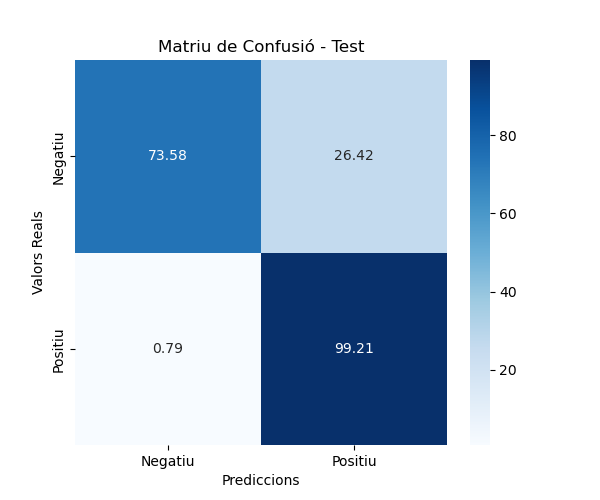
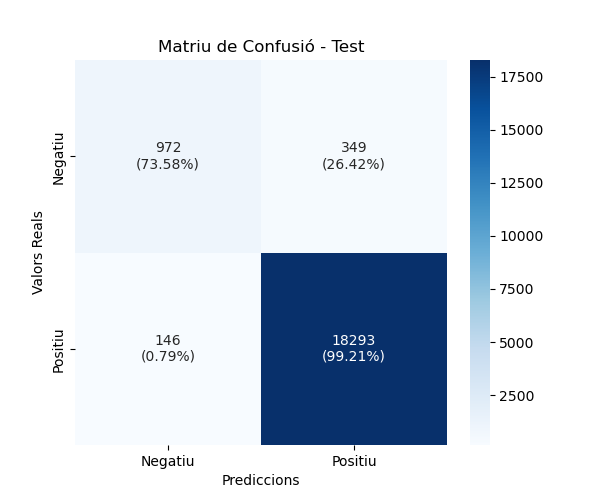
main i esas cosas

diff --git a/main.py b/main.py
@@ -1,0 +1,135 @@
+import pandas as pd
+import numpy as np
+from sklearn.feature_extraction.text import TfidfVectorizer, CountVectorizer
+from sklearn.svm import LinearSVR
+from sklearn.naive_bayes import MultinomialNB, ComplementNB
+from sklearn.ensemble import RandomForestRegressor
+from xgboost import XGBRegressor
+from sklearn.metrics import mean_squared_error, r2_score, confusion_matrix, accuracy_score, classification_report
+import seaborn as sns
+import matplotlib.pyplot as plt
+
+# Funció per carregar i preparar les dades
+def prepara_dades(data_dir, vectorizer_type="tfidf", max_features=5000):
+    """
+    Carrega, neteja i vectoritza les dades.
+    """
+    # Carregar dades
+    train_data = pd.read_csv(data_dir + "train_set.csv")
+    val_data = pd.read_csv(data_dir + "val_set.csv")
+    test_data = pd.read_csv(data_dir + "test_set.csv")
+
+    # Substituir NaN per cadenes buides i convertir a string
+    for dataset in [train_data, val_data, test_data]:
+        dataset['description'] = dataset['description'].fillna('').astype(str)
+
+    # Etiquetes
+    y_train = train_data['score']
+    y_val = val_data['score']
+    y_test = test_data['score']
+
+    # Vectorització
+    if vectorizer_type == "tfidf":
+        vectorizer = TfidfVectorizer(max_features=max_features)
+    elif vectorizer_type == "count":
+        vectorizer = CountVectorizer(max_features=max_features)
+    else:
+        raise ValueError("vectorizer_type ha de ser 'tfidf' o 'count'.")
+
+    X_train = vectorizer.fit_transform(train_data['description'])
+    X_val = vectorizer.transform(val_data['description'])
+    X_test = vectorizer.transform(test_data['description'])
+
+    return X_train, y_train, X_val, y_val, X_test, y_test, vectorizer
+
+# Funció per entrenar i avaluar regressors
+def entrenar_avaluar_regressor(model, model_name, X_train, y_train, X_val, y_val, X_test, y_test):
+    """
+    Entrena i avalua un model de regressió.
+    """
+    print(f"\n### Model: {model_name} ###")
+
+    # Entrenar model
+    model.fit(X_train, y_train)
+
+    # Prediccions
+    y_val_pred = model.predict(X_val)
+    y_test_pred = model.predict(X_test)
+
+    # Mètriques de regressió
+    val_mse = mean_squared_error(y_val, y_val_pred)
+    val_r2 = r2_score(y_val, y_val_pred)
+    print(f"Validació - MSE: {val_mse:.4f}, R2: {val_r2:.4f}")
+
+    test_mse = mean_squared_error(y_test, y_test_pred)
+    test_r2 = r2_score(y_test, y_test_pred)
+    print(f"Test - MSE: {test_mse:.4f}, R2: {test_r2:.4f}")
+
+# Funció per entrenar i avaluar classificadors amb matriu de confusió
+def entrenar_avaluar_classificador(model, model_name, X_train, y_train, X_val, y_val, X_test, y_test):
+    """
+    Entrena i avalua un model de classificació.
+    """
+    print(f"\n### Model: {model_name} ###")
+    
+    # Entrenar model
+    model.fit(X_train, y_train)
+
+    # Prediccions
+    y_test_pred = model.predict(X_test)
+    test_accuracy = accuracy_score(y_test, y_test_pred)
+    print(f"Exactitud en test: {test_accuracy:.4f}")
+
+    print("\nClassification Report (Test):")
+    print(classification_report(y_test, y_test_pred))
+
+    # Matriu de confusió
+    print("Matriu de Confusió (Test):")
+    unique_labels = sorted(set(y_test))
+    plot_confusion_matrix(y_test, y_test_pred, unique_labels, model_name)
+
+# Funció per plotejar la matriu de confusió
+def plot_confusion_matrix(y_true, y_pred, labels, model_name):
+    """
+    Plotejar la matriu de confusió amb números i percentatges.
+    """
+    cm = confusion_matrix(y_true, y_pred)
+    cm_percent = cm.astype('float') / cm.sum(axis=1)[:, np.newaxis] * 100
+
+    # Anotacions combinant nombres i percentatges
+    annotations = np.empty_like(cm).astype(str)
+    for i in range(cm.shape[0]):
+        for j in range(cm.shape[1]):
+            annotations[i, j] = f"{cm[i, j]}\n({cm_percent[i, j]:.2f}%)"
+
+    # Plotejar
+    plt.figure(figsize=(8, 6))
+    sns.heatmap(cm, annot=annotations, fmt="", cmap="Blues", xticklabels=labels, yticklabels=labels)
+    plt.title("Matriu de Confusió: {model_name}")
+    plt.ylabel("Valor Real")
+    plt.xlabel("Predicció")
+    plt.show()
+
+# Main
+if __name__ == "__main__":
+    data_dir = "data/"
+
+    # Preparar dades
+    X_train, y_train, X_val, y_val, X_test, y_test, vectorizer = prepara_dades(data_dir, vectorizer_type="tfidf")
+
+    # REGRESSORS
+    regressors = [
+        (LinearSVR(), "SVM Regressor"),
+        (RandomForestRegressor(n_estimators=100, max_depth=5, min_samples_split=10, random_state=42), "RandomForest Regressor"),
+        (XGBRegressor(n_estimators=100, random_state=42), "XGBoost Regressor")
+    ]
+    for model, model_name in regressors:
+        entrenar_avaluar_regressor(model, model_name, X_train, y_train, X_val, y_val, X_test, y_test)
+
+    # CLASSIFICADORS
+    classificadors = [
+        (MultinomialNB(), "MultinomialNB"),
+        (ComplementNB(), "ComplementNB")
+    ]
+    for model, model_name in classificadors:
+        entrenar_avaluar_classificador(model, model_name, X_train, y_train, X_val, y_val, X_test, y_test)

diff --git a/SVM/SVM_Class.py b/SVM/SVM_Class.py
@@ -20,7 +20,7 @@ y_train = train_data['score']  # Etiquetes d'entrenament
 X_valid = valid_data['description'].fillna("") # Ressenyes de validació: Substituir NaN per cadena buida 
 y_valid = valid_data['score']  # Etiquetes de validació
 
-X_test = test_data['description'] # Ressenyes de test: Substituir NaN per cadena buida
+X_test = test_data['description'].fillna("") # Ressenyes de test: Substituir NaN per cadena buida
 y_test = test_data['score']  # Etiquetes de test
 
 # 3. Vectoritzar el text amb TF-IDF (ajustat amb dades d'entrenament)
@@ -28,14 +28,6 @@ vectorizer = TfidfVectorizer(max_features=5000)
 X_train_tfidf = vectorizer.fit_transform(X_train)
 X_valid_tfidf = vectorizer.transform(X_valid)
 X_test_tfidf = vectorizer.transform(X_test)
-
-# Convertir el TF-IDF de X_train a un DataFrame llegible
-feature_names = vectorizer.get_feature_names_out()
-X_train_df = pd.DataFrame(X_train_tfidf.toarray(), columns=feature_names)
-
-# Imprimir una part del TF-IDF per veure les característiques
-print("Primers 5 vectors TF-IDF:")
-print(X_train_df.head())
 
 # 4. Entrenar el model SVM amb el conjunt d'entrenament
 svm_model = LinearSVC() #classification
@@ -55,14 +47,21 @@ print(f"Exactitud del model en test: {test_accuracy:.4f}")
 print("\nClassification Report (Test):")
 print(classification_report(y_test, y_test_pred))
 
-# 8. Funció per a la matriu de confusió amb colors
+# 8. Funció per a la matriu de confusió amb números i percentatges
 def plot_confusion_matrix(y_true, y_pred, labels):
     cm = confusion_matrix(y_true, y_pred)
     cm_percent = cm.astype('float') / cm.sum(axis=1)[:, np.newaxis] * 100  # Percentatges per fila
+
+    # Crear anotacions combinant nombres i percentatges
+    annotations = np.empty_like(cm).astype(str)
+    for i in range(cm.shape[0]):
+        for j in range(cm.shape[1]):
+            annotations[i, j] = f"{cm[i, j]}\n({cm_percent[i, j]:.2f}%)"
     
+    # Plotejar la matriu de confusió
     plt.figure(figsize=(8, 6))
-    sns.heatmap(cm_percent, annot=True, fmt=".2f", cmap="Blues", xticklabels=labels, yticklabels=labels)
-    plt.title("Matriu de Confusió (%)")
+    sns.heatmap(cm_percent, annot=annotations, fmt="", cmap="Blues", xticklabels=labels, yticklabels=labels)
+    plt.title("Matriu de Confusió (%) i Nombres Reals")
     plt.ylabel("Valor Real")
     plt.xlabel("Predicció")
     plt.show()
@@ -71,4 +70,3 @@ def plot_confusion_matrix(y_true, y_pred, labels):
 print("Matriu de Confusió (Test):")
 unique_labels = sorted(set(y_test))  # Etiquetes úniques per eix
 plot_confusion_matrix(y_test, y_test_pred, labels=unique_labels)
- 

diff --git a/SVM/SVM_Class_binari.py b/SVM/SVM_Class_binari.py
@@ -63,8 +63,15 @@ def plot_confusion_matrix(y_true, y_pred, title="Matriu de Confusió"):
     cm_percent = cm.astype('float') / cm.sum(axis=1)[:, np.newaxis] * 100  # Percentatges per fila
     labels = ["Negatiu", "Positiu"]  # Etiquetes per a classificació binària
     
+    # Crear anotacions combinant nombres i percentatges
+    annotations = np.empty_like(cm).astype(str)
+    for i in range(cm.shape[0]):
+        for j in range(cm.shape[1]):
+            annotations[i, j] = f"{cm[i, j]}\n({cm_percent[i, j]:.2f}%)"
+
+    # Plotejar la matriu de confusió
     plt.figure(figsize=(6, 5))
-    sns.heatmap(cm_percent, annot=True, fmt=".2f", cmap="Blues", xticklabels=labels, yticklabels=labels)
+    sns.heatmap(cm, annot=annotations, fmt="", cmap="Blues", xticklabels=labels, yticklabels=labels)
     plt.title(title)
     plt.xlabel("Prediccions")
     plt.ylabel("Valors Reals")
